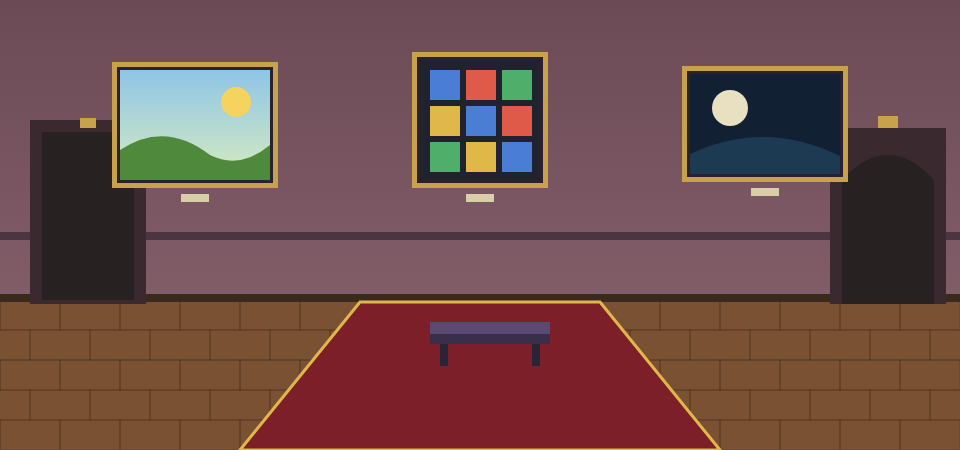
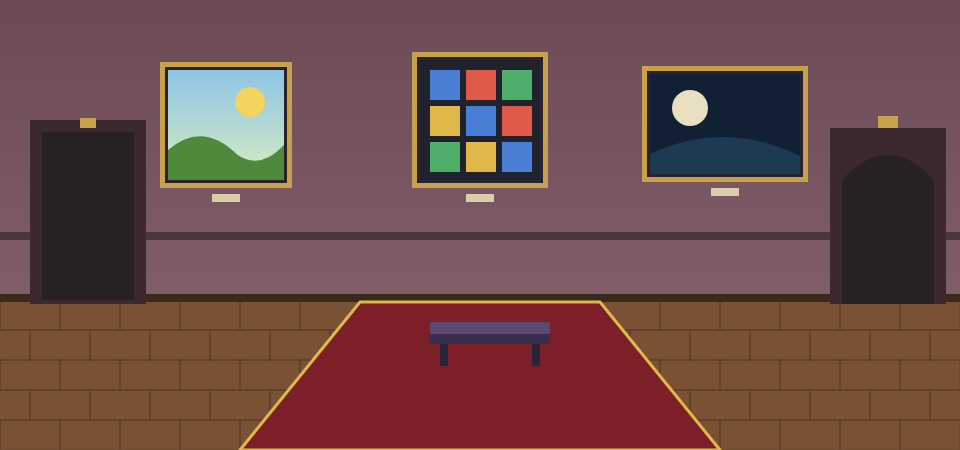
fix: gallery paintings overlapped the doorway and archway
The landscape painting's frame overlapped the left doorway and the
night painting's frame overlapped the right archway. Resize/shift both
in the asset generator, regenerate the background, and move the
matching hotspot rects.

Changed region(s): [[0.0938, 0.1244, 0.3125, 0.4667], [0.6562, 0.1244, 0.9062, 0.4044], [0.7188, 0.4044, 0.8125, 0.4356]]

diff --git a/src/game/rooms/gallery.ts b/src/game/rooms/gallery.ts
@@ -122,8 +122,8 @@ export const galleryRoom: RoomDef = {
     {
       id: 'painting-landscape',
       name: 'landscape painting',
-      rect: { x: 112, y: 62, w: 166, h: 126 },
-      walkTo: { x: 195, y: 330 },
+      rect: { x: 160, y: 62, w: 132, h: 126 },
+      walkTo: { x: 226, y: 330 },
       facing: 'up',
       on: {
         lookat: 'Rolling hills at sunset. The gift shop had it as a mousepad.',
@@ -143,8 +143,8 @@ export const galleryRoom: RoomDef = {
     {
       id: 'painting-night',
       name: 'night painting',
-      rect: { x: 682, y: 66, w: 166, h: 116 },
-      walkTo: { x: 765, y: 330 },
+      rect: { x: 642, y: 66, w: 166, h: 116 },
+      walkTo: { x: 725, y: 330 },
       facing: 'up',
       on: {
         lookat: 'A moon over dark hills. Peaceful. A little smug about it.',